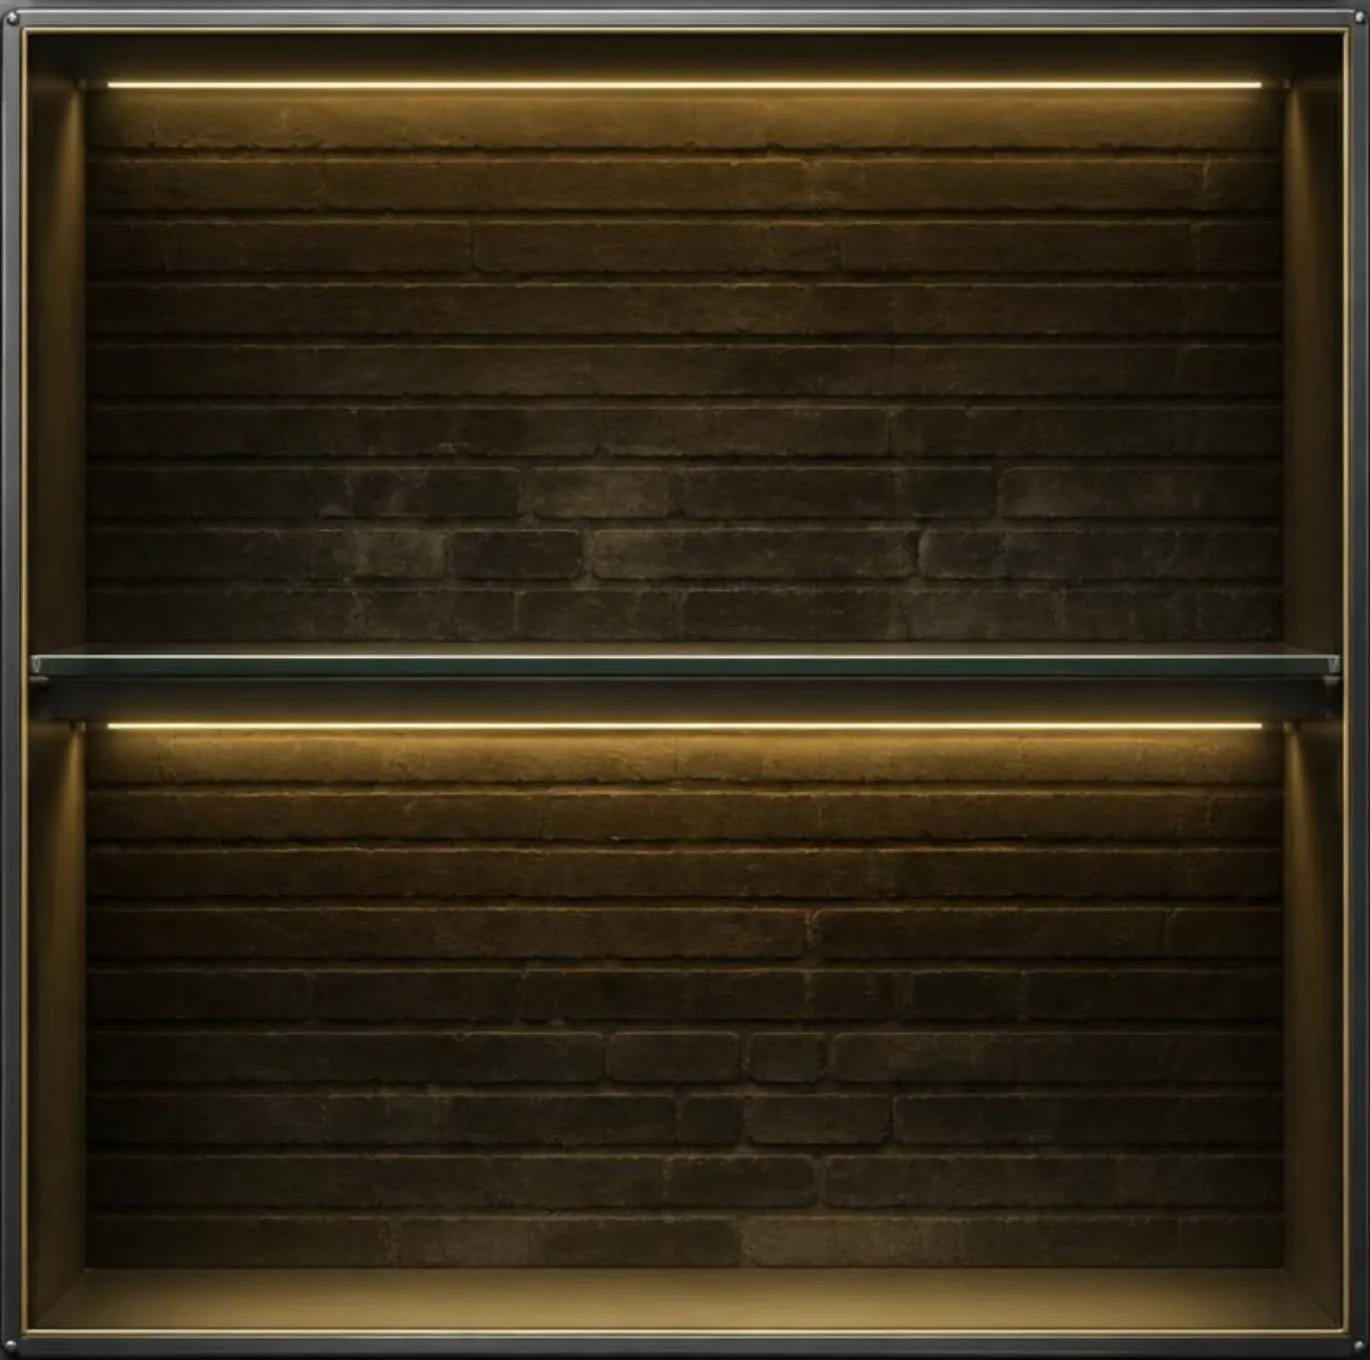
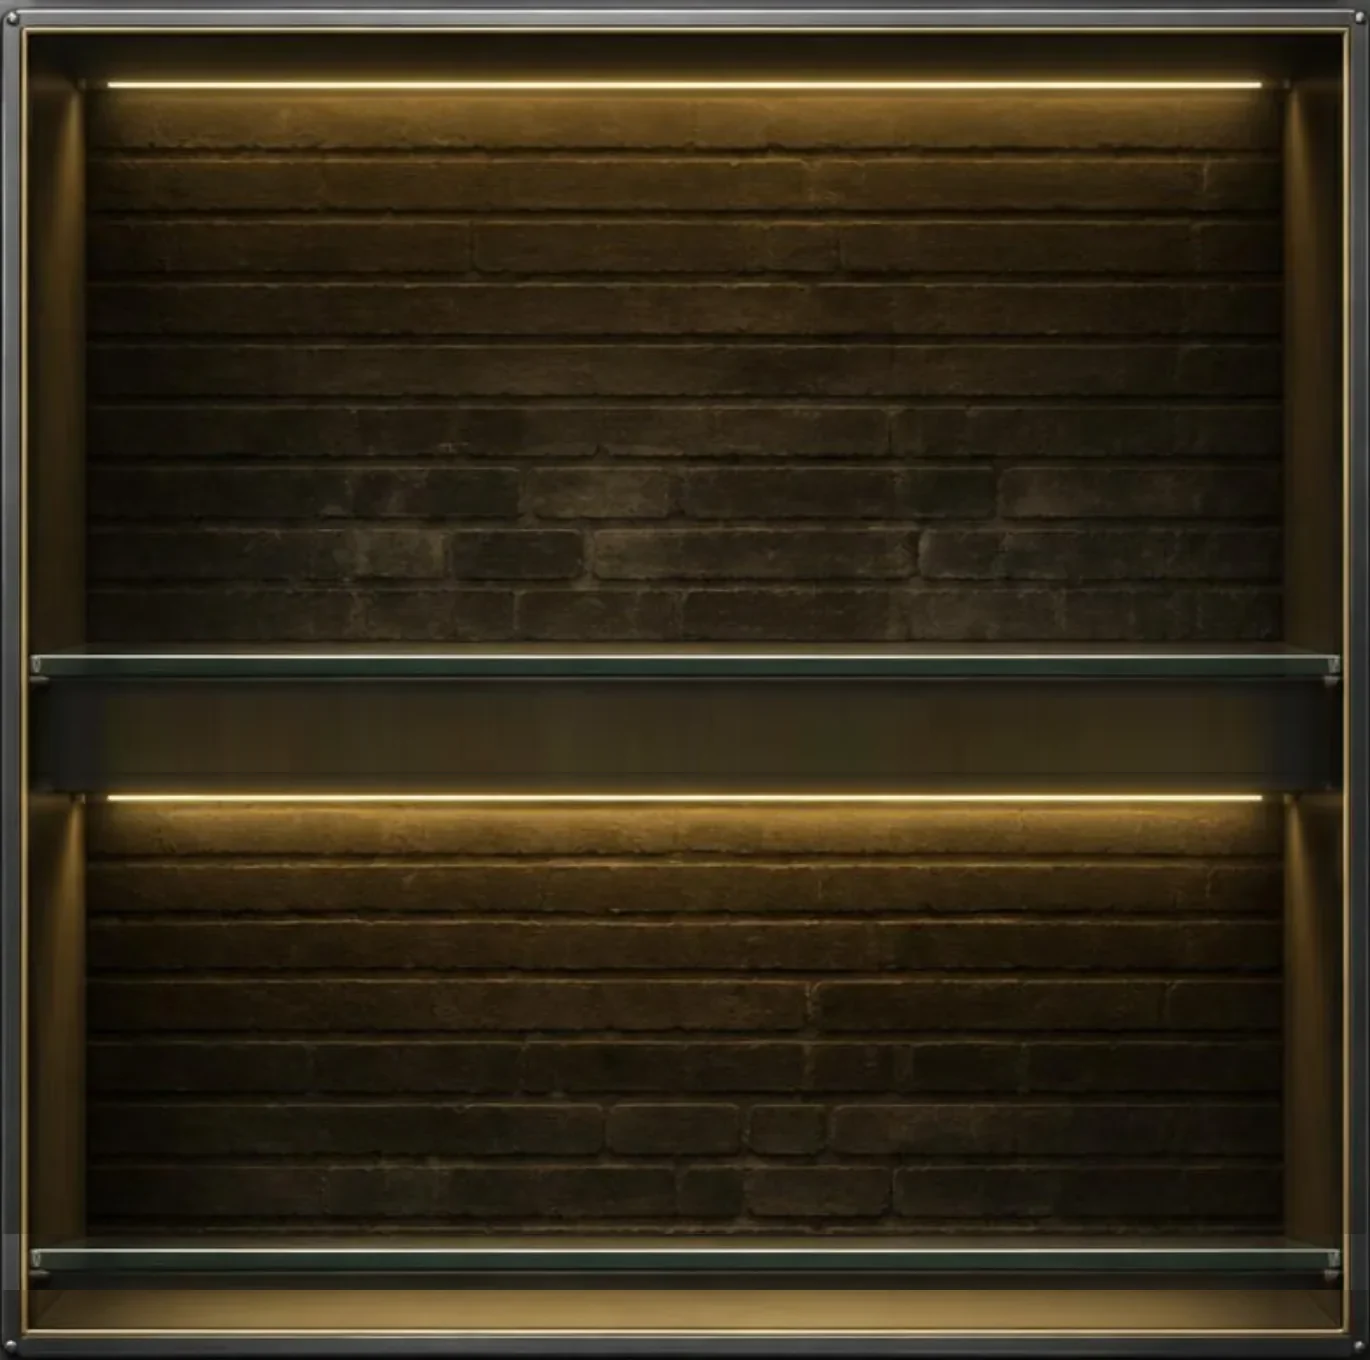
Neon e parede dos cards vindos do Canva; prateleiras da máquina igualadas
- Packs prontos: parede do nicho e seis letreiros de neon gerados no Canva
- Vitrine: o nicho de baixo ganha o vidro fotografado e a fita de LED na mesma altura do de cima

Claude-Session: https://claude.ai/code/session_01T5E8qU9PDaLPYEjmkNWL7n

Changed region(s): [[0.0, 0.525, 0.981, 0.7721], [0.0, 0.8029, 0.981, 0.9574]]

diff --git a/src/styles/shop.css b/src/styles/shop.css
@@ -176,31 +176,29 @@
 [data-carrier="f"] .pk-carrier b{font-size:clamp(15px,5cqw,23px);color:transparent;background:linear-gradient(180deg,#f5e2a5,#c7a65a 55%,#876b32);-webkit-background-clip:text;background-clip:text;text-shadow:none}
 [data-carrier="f"] .pk-carrier i{display:none}
 
-/* g · neon (padrão): o nome aceso na parede de tijolo da própria máquina (a peça do Canva, recortada do nicho da vitrine),
-   latas na prateleira de vidro com a régua escura da máquina */
+/* g · neon (padrão): parede do nicho e letreiros de neon gerados no Canva.
+   A parede já traz a fita de LED, as laterais iluminadas e a prateleira de vidro; o letreiro vem em fundo preto
+   e entra em modo "screen", que deixa passar só a luz. */
 [data-carrier="g"] .pk-art{
   background:
-    radial-gradient(70% 34% at 50% 22%,color-mix(in srgb,var(--c1) 36%,transparent),transparent 72%),
-    radial-gradient(55% 60% at 14% 70%,color-mix(in srgb,var(--c1) 22%,transparent),transparent 70%),
-    radial-gradient(55% 60% at 86% 70%,color-mix(in srgb,var(--c2) 22%,transparent),transparent 70%),
-    linear-gradient(180deg,rgba(0,0,0,.25),rgba(0,0,0,0) 30%,rgba(0,0,0,.35)),
-    url(../assets/img/pk-wall.webp) center top/cover no-repeat,#14110d}
-[data-carrier="g"] .pk-art::before{display:none} /* a fita de LED já vem na foto da parede */
-[data-carrier="g"] .pk-sign{display:flex;justify-content:center;position:absolute;left:0;right:0;top:17%}
-[data-carrier="g"] .pk-sign b{font-family:var(--title);font-weight:800;font-style:oblique;font-size:clamp(22px,8.2cqw,36px);line-height:1;letter-spacing:2.5px;text-transform:uppercase;white-space:nowrap;color:#fff;
-  text-shadow:0 0 4px #fff,0 0 12px color-mix(in srgb,var(--c1) 70%,#fff),0 0 26px var(--c1),0 0 54px var(--c1),0 0 90px var(--c1);animation:neon 5s infinite}
-@keyframes neon{0%,91%,95%,100%{opacity:1}93%{opacity:.72}}
-@media (prefers-reduced-motion:reduce){[data-carrier="g"] .pk-sign b{animation:none}}
-[data-carrier="g"] .pk-cans{bottom:9%}
-[data-carrier="g"] .pk-cans img{-webkit-box-reflect:below 0 linear-gradient(transparent 90%,rgba(255,255,255,.16))}
-[data-carrier="g"] .pk-carrier{height:9%;justify-content:center;padding:0;
-  background:linear-gradient(180deg,rgba(255,255,255,.5) 0,rgba(200,230,255,.2) 4%,rgba(255,255,255,.08) 12%,rgba(0,0,0,.3) 26%,#2a2a2a 27%,#171717 100%);
-  box-shadow:0 -10px 16px rgba(0,0,0,.45),inset 0 1px 0 rgba(255,255,255,.5)}
-[data-carrier="g"] .pk-carrier b,[data-carrier="g"] .pk-carrier i,[data-carrier="g"] .pk-carrier em{display:none!important}
+    radial-gradient(64% 36% at 50% 24%,color-mix(in srgb,var(--glow) 34%,transparent),transparent 72%),
+    radial-gradient(90% 40% at 50% 96%,color-mix(in srgb,var(--glow) 16%,transparent),transparent 75%),
+    url(../assets/img/pk-wall.webp) center/100% 100% no-repeat,#14110d}
+[data-carrier="g"] .pk-art::before{display:none}
+[data-carrier="g"] .pk-art::after{background:linear-gradient(104deg,rgba(255,255,255,.07) 0,rgba(255,255,255,0) 24%,rgba(255,255,255,0) 76%,rgba(255,255,255,.05) 100%)}
+[data-carrier="g"] .pk-sign{display:block;position:absolute;left:13%;right:13%;top:8.5%;mix-blend-mode:screen}
+[data-carrier="g"] .pk-sign img{display:block;width:100%;height:auto;max-width:none;animation:neon 6s infinite}
+[data-carrier="g"] .pk-sign b{display:none}
+@keyframes neon{0%,91%,95%,100%{opacity:1}93%{opacity:.7}}
+@media (prefers-reduced-motion:reduce){[data-carrier="g"] .pk-sign img{animation:none}}
+[data-carrier="g"] .pk-cans{bottom:11.5%}
+[data-carrier="g"] .pk-cans img{filter:drop-shadow(0 8px 7px rgba(0,0,0,.55))}
+[data-carrier="g"] .pk-carrier{display:none}
 /* o neon já é o título: o h3 fica só para leitores de tela */
 [data-carrier="g"] .pk-body h3{position:absolute;width:1px;height:1px;overflow:hidden;clip:rect(0 0 0 0);white-space:nowrap}
 [data-carrier="g"] .pk-line{margin-top:0;font-size:19px}
-[data-carrier="g"] .pk-carrier em{display:block;margin-top:5.5%;font-style:normal;font-family:var(--title);font-weight:700;font-size:clamp(10px,3.1cqw,13px);letter-spacing:2px;text-transform:uppercase;color:rgba(252,248,205,.7);white-space:nowrap}
+[data-carrier="g"] .pk-tag{top:8px;left:8px;font-size:11px;padding:4px 9px}
+[data-carrier="g"] .pk-count{top:8px;right:8px;font-size:11px;padding:4px 9px}
 
 /* h · engradado aberto: ripas atrás das latas e uma tábua na frente com o nome marcado */
 [data-carrier="h"] .pk-sign{display:block;position:absolute;left:3%;right:3%;top:34%;bottom:10%;

diff --git a/src/data/presets.js b/src/data/presets.js
@@ -1,8 +1,18 @@
+/* Os letreiros de neon e a parede dos cards foram gerados no Canva (design "Oficina Six Pack Machine – peças dos cards"). */
+import neon_low_cal from '../assets/neon/low-cal.webp';
+import neon_sour_power from '../assets/neon/sour-power.webp';
+import neon_classic_trio from '../assets/neon/classic-trio.webp';
+import neon_hop_trip from '../assets/neon/hop-trip.webp';
+import neon_paranoid_night from '../assets/neon/paranoid-night.webp';
+import neon_tour_da_casa from '../assets/neon/tour-da-casa.webp';
+
 /* Packs prontos: 6 latas cada, pelo `key` de src/data/cans.js.
    O preço é sempre a soma das latas (sem desconto próprio). */
 export const PRESETS = [
   {
     id: 'low-cal',
+    neon: neon_low_cal,
+    glow: '#2f8bff',
     name: 'Low Cal Pack',
     tag: 'Leve',
     line: '3 Free + 3 Summer',
@@ -11,6 +21,8 @@ export const PRESETS = [
   },
   {
     id: 'sour-power',
+    neon: neon_sour_power,
+    glow: '#ff2fc0',
     name: 'Sour Power',
     tag: 'Azedinhas',
     line: "2 I'm Sour + 2 Baby + 2 F#cking",
@@ -19,6 +31,8 @@ export const PRESETS = [
   },
   {
     id: 'classic-trio',
+    neon: neon_classic_trio,
+    glow: '#ff7a1a',
     name: 'Classic Trio',
     tag: 'Linha fixa',
     line: '2 Classic + 2 Summer + 2 Free',
@@ -27,6 +41,8 @@ export const PRESETS = [
   },
   {
     id: 'hop-trip',
+    neon: neon_hop_trip,
+    glow: '#2fe05a',
     name: 'Hop Trip',
     tag: 'Lupuladas',
     line: '2 Classic + 2 Galaxy Detox + 2 Milky Way',
@@ -35,6 +51,8 @@ export const PRESETS = [
   },
   {
     id: 'paranoid-night',
+    neon: neon_paranoid_night,
+    glow: '#ff3d6e',
     name: 'Paranoid Night',
     tag: 'Imperial Stout 12%',
     line: '3 Popcorn + 3 Coconut and Coffee',
@@ -43,6 +61,8 @@ export const PRESETS = [
   },
   {
     id: 'tour-da-casa',
+    neon: neon_tour_da_casa,
+    glow: '#ffb21a',
     name: 'Tour da Casa',
     tag: 'Um de cada',
     line: 'Sour, IPAs e Imperial Stout',

diff --git a/src/components/Presets.jsx b/src/components/Presets.jsx
@@ -18,9 +18,9 @@ function PresetCard({ preset, stock, inOrder, onAdd, onOpen }) {
   const add = () => { if (onAdd(preset)) { setAdded(true); setTimeout(() => setAdded(false), 1400); } };
 
   return (
-    <article className={'pk' + (available ? '' : ' off')} style={{ '--c1': colors[0], '--c2': colors[1] || colors[0], '--c3': colors[2] || colors[0] }}>
+    <article className={'pk' + (available ? '' : ' off')} style={{ '--c1': colors[0], '--c2': colors[1] || colors[0], '--c3': colors[2] || colors[0], '--glow': preset.glow || colors[0] }}>
       <div className="pk-art" aria-hidden="true">
-        <div className="pk-sign"><b>{preset.name}</b></div>
+        <div className="pk-sign">{preset.neon && <img src={preset.neon} alt="" loading="lazy" />}<b>{preset.name}</b></div>
         <div className="pk-handle" />
         <div className="pk-cans">
           {cans.map((c, i) => <img key={i} src={c.img} alt="" loading="lazy" style={{ '--i': i }} />)}

diff --git a/README.md b/README.md
@@ -27,6 +27,8 @@ A cada push na `main` ou na branch `claude/react-spa-site-8k0czb`, o workflow
 - `src/data/cans.js` — os 10 rótulos (nome, preço, ficha). **Os preços são os do artefato**; o estoque é de demonstração (12 por rótulo, em `engine.js`).
 - `src/data/presets.js` — os packs prontos (nome, texto e as 6 latas de cada um; o preço é a soma das latas).
 - `src/components/Presets.jsx`, `Order.jsx`, `ActionBar.jsx` — packs prontos, "Seu pedido" e a barra fixa, fora do palco escalado (botões de 48 px).
+- `src/assets/neon/` e `src/assets/img/pk-wall.webp` — letreiros de neon e parede dos cards, gerados no Canva (design "Oficina Six Pack Machine – peças dos cards": https://www.canva.com/d/TdrVAPOs61v7AaW, pág. 2 parede, págs. 3–8 neons).
+- `src/assets/img/vit.webp` — vitrine da máquina com as duas prateleiras igualadas (vidro e fita de LED do nicho de baixo ajustados a partir do nicho de cima).
 - `src/styles/tweaks.css` — legibilidade no celular (`.stage.compact`); `src/styles/shop.css` — o que fica abaixo da máquina.
 - `src/styles/machine.css` — o CSS original, com fontes e imagens extraídas para `src/assets/`.
 
